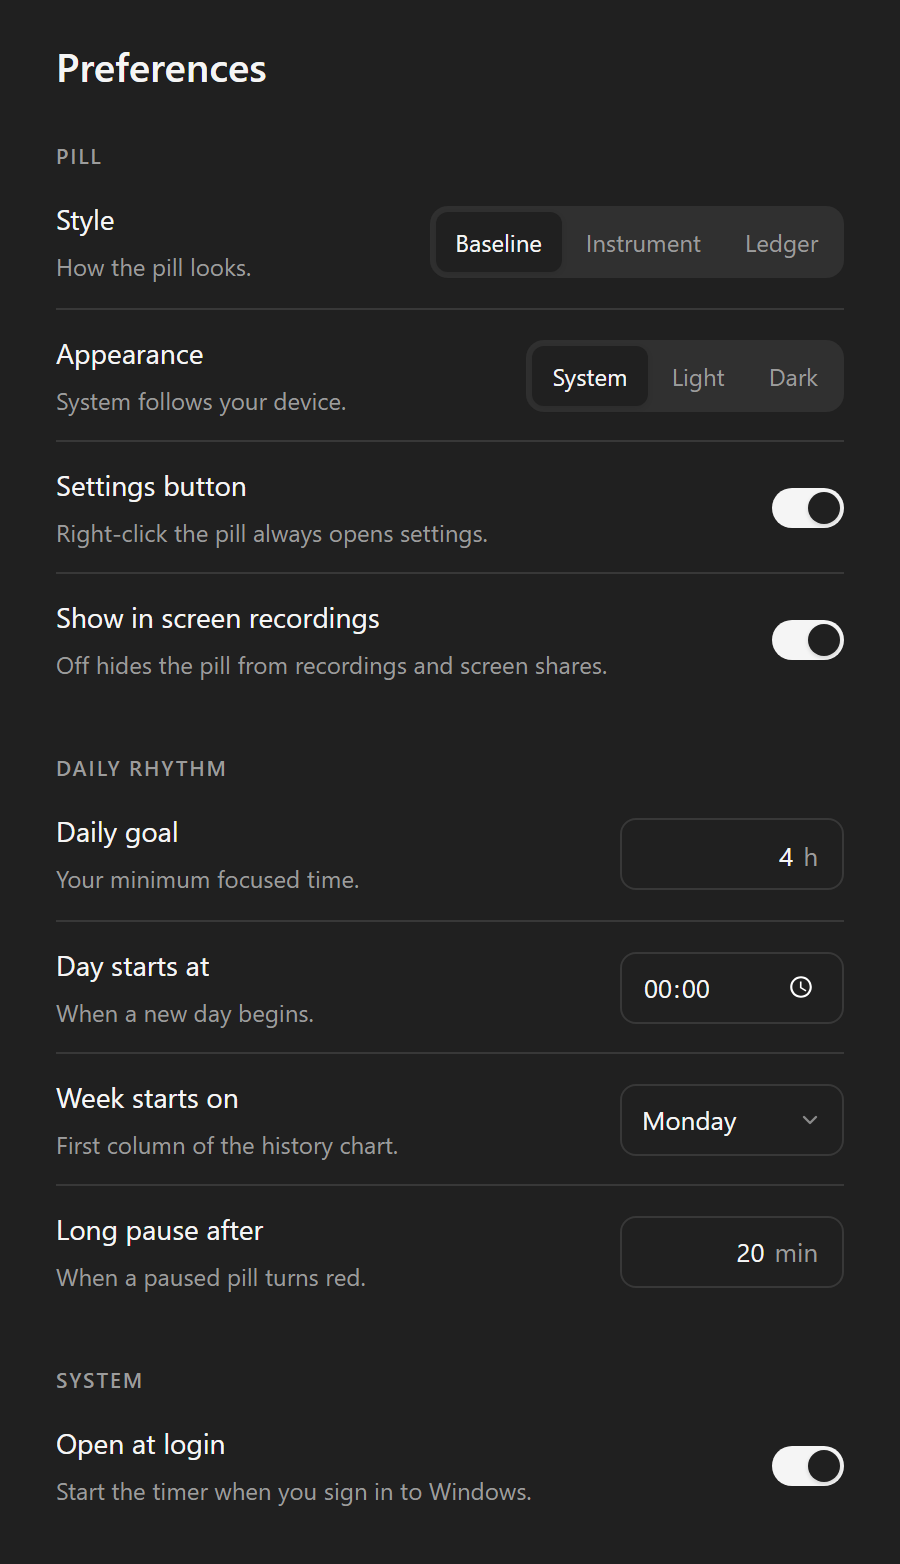
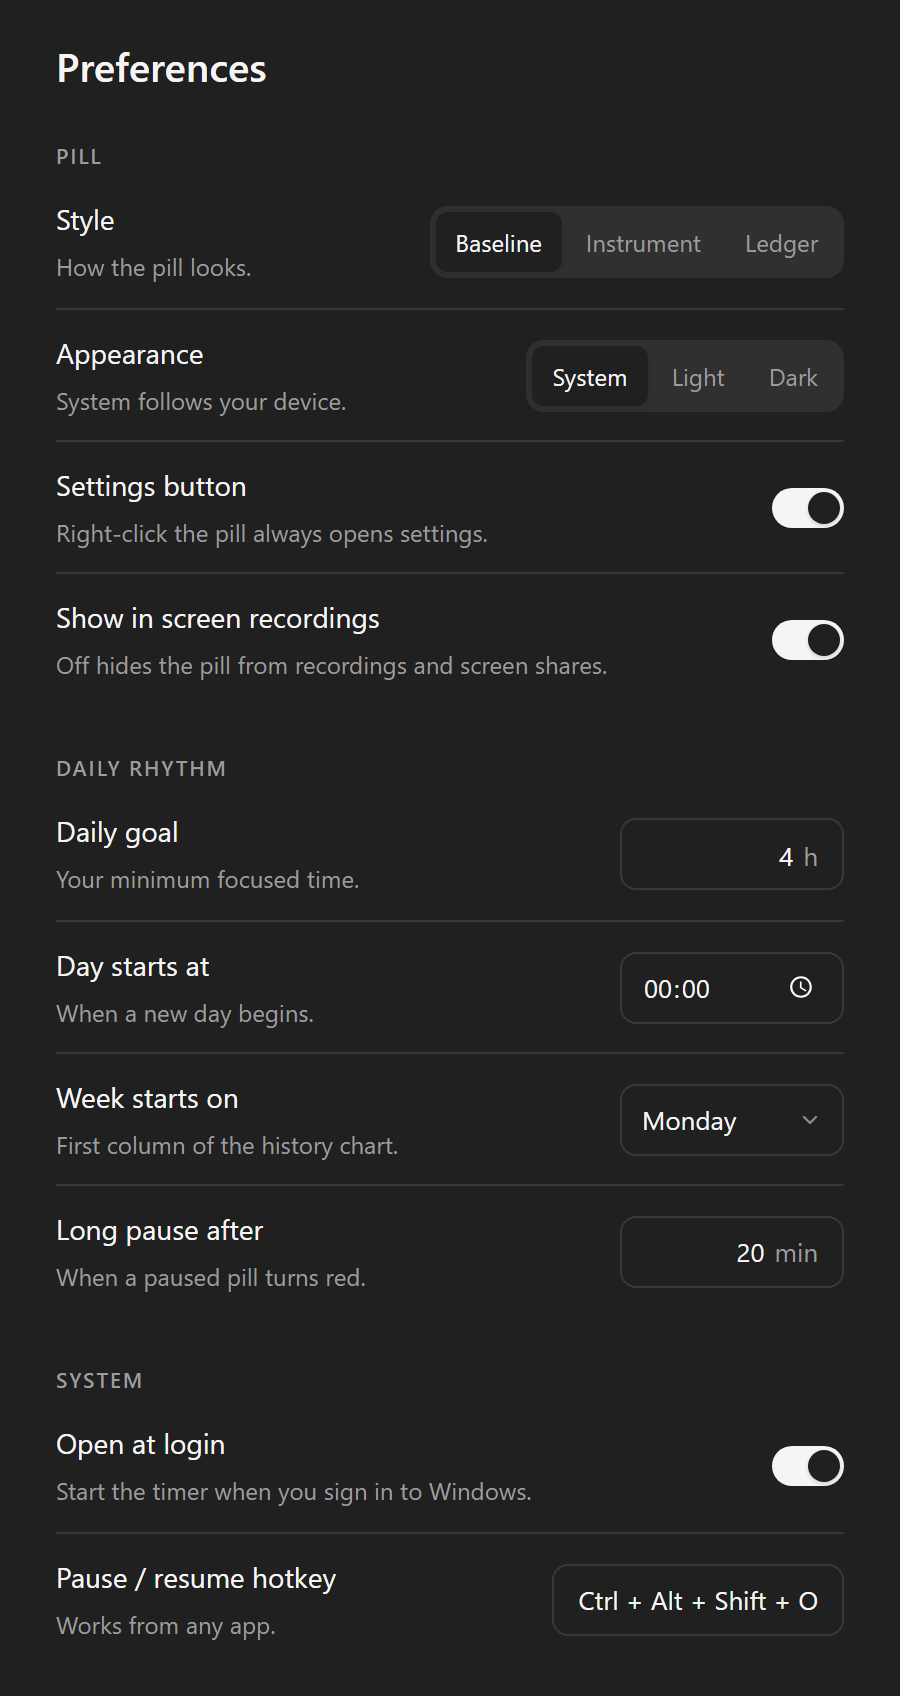
feat: global pause/resume hotkey, pale Instrument light palette

diff --git a/website/src/sections/Settings.tsx b/website/src/sections/Settings.tsx
@@ -10,6 +10,7 @@ const ITEMS: [string, string][] = [
   ["Week starts on", "The first column of the history chart."],
   ["Long pause after", "How long a break can run before the pill warns you."],
   ["Open at login", "Start On Hours when you sign in to Windows."],
+  ["Pause / resume hotkey", "Start or pause from any app without touching the pill. Ctrl + Alt + Shift + O unless you pick your own."],
 ];
 
 export function Settings() {
@@ -17,7 +18,7 @@ export function Settings() {
     <section className="section wrap" id="settings">
       <Reveal>
         <p className="eyebrow">Settings</p>
-        <h2 className="section-title">Nine switches. That's all of them.</h2>
+        <h2 className="section-title">Ten switches. That's all of them.</h2>
         <p className="section-lead">Right-click the pill, or click the tray icon by the clock, to open settings.</p>
       </Reveal>
       <div className="settings-layout">
@@ -43,4 +44,4 @@ export function Settings() {
 }
 
 // Height of the screenshot at 450 wide; regenerate with `node scripts/shots/site.mjs`.
-const SHOT_HEIGHT = 782;
+const SHOT_HEIGHT = 848;

diff --git a/website/src/sections/Idea.tsx b/website/src/sections/Idea.tsx
@@ -7,7 +7,7 @@ import { Reveal } from "../ui/Reveal";
 const MIN = 60_000;
 const BEATS: { title: string; body: string; state: DemoState }[] = [
   { title: "Press play when real work starts.", body: "The light turns yellow and the clock runs. Sitting at your desk doesn't count. Working does.", state: { elapsedMs: HOUR + 12 * MIN + 36_000, running: true, pausedMs: 0 } },
-  { title: "Press pause when it stops.", body: "Coffee, phone, lunch: pause. Stay away too long and the red light starts asking for you.", state: { elapsedMs: 2 * HOUR + 5 * MIN + 44_000, running: false, pausedMs: 25 * MIN } },
+  { title: "Press pause when it stops.", body: "Coffee, phone, lunch: pause. Ctrl + Alt + Shift + O does it from any app. Stay away too long and the red light starts asking for you.", state: { elapsedMs: 2 * HOUR + 5 * MIN + 44_000, running: false, pausedMs: 25 * MIN } },
   { title: "Hit your daily minimum.", body: "Set the number of hours you owe yourself. When you get there, the light goes green.", state: { elapsedMs: 4 * HOUR + 37 * MIN + 12_000, running: true, pausedMs: 0 } },
 ];
 
